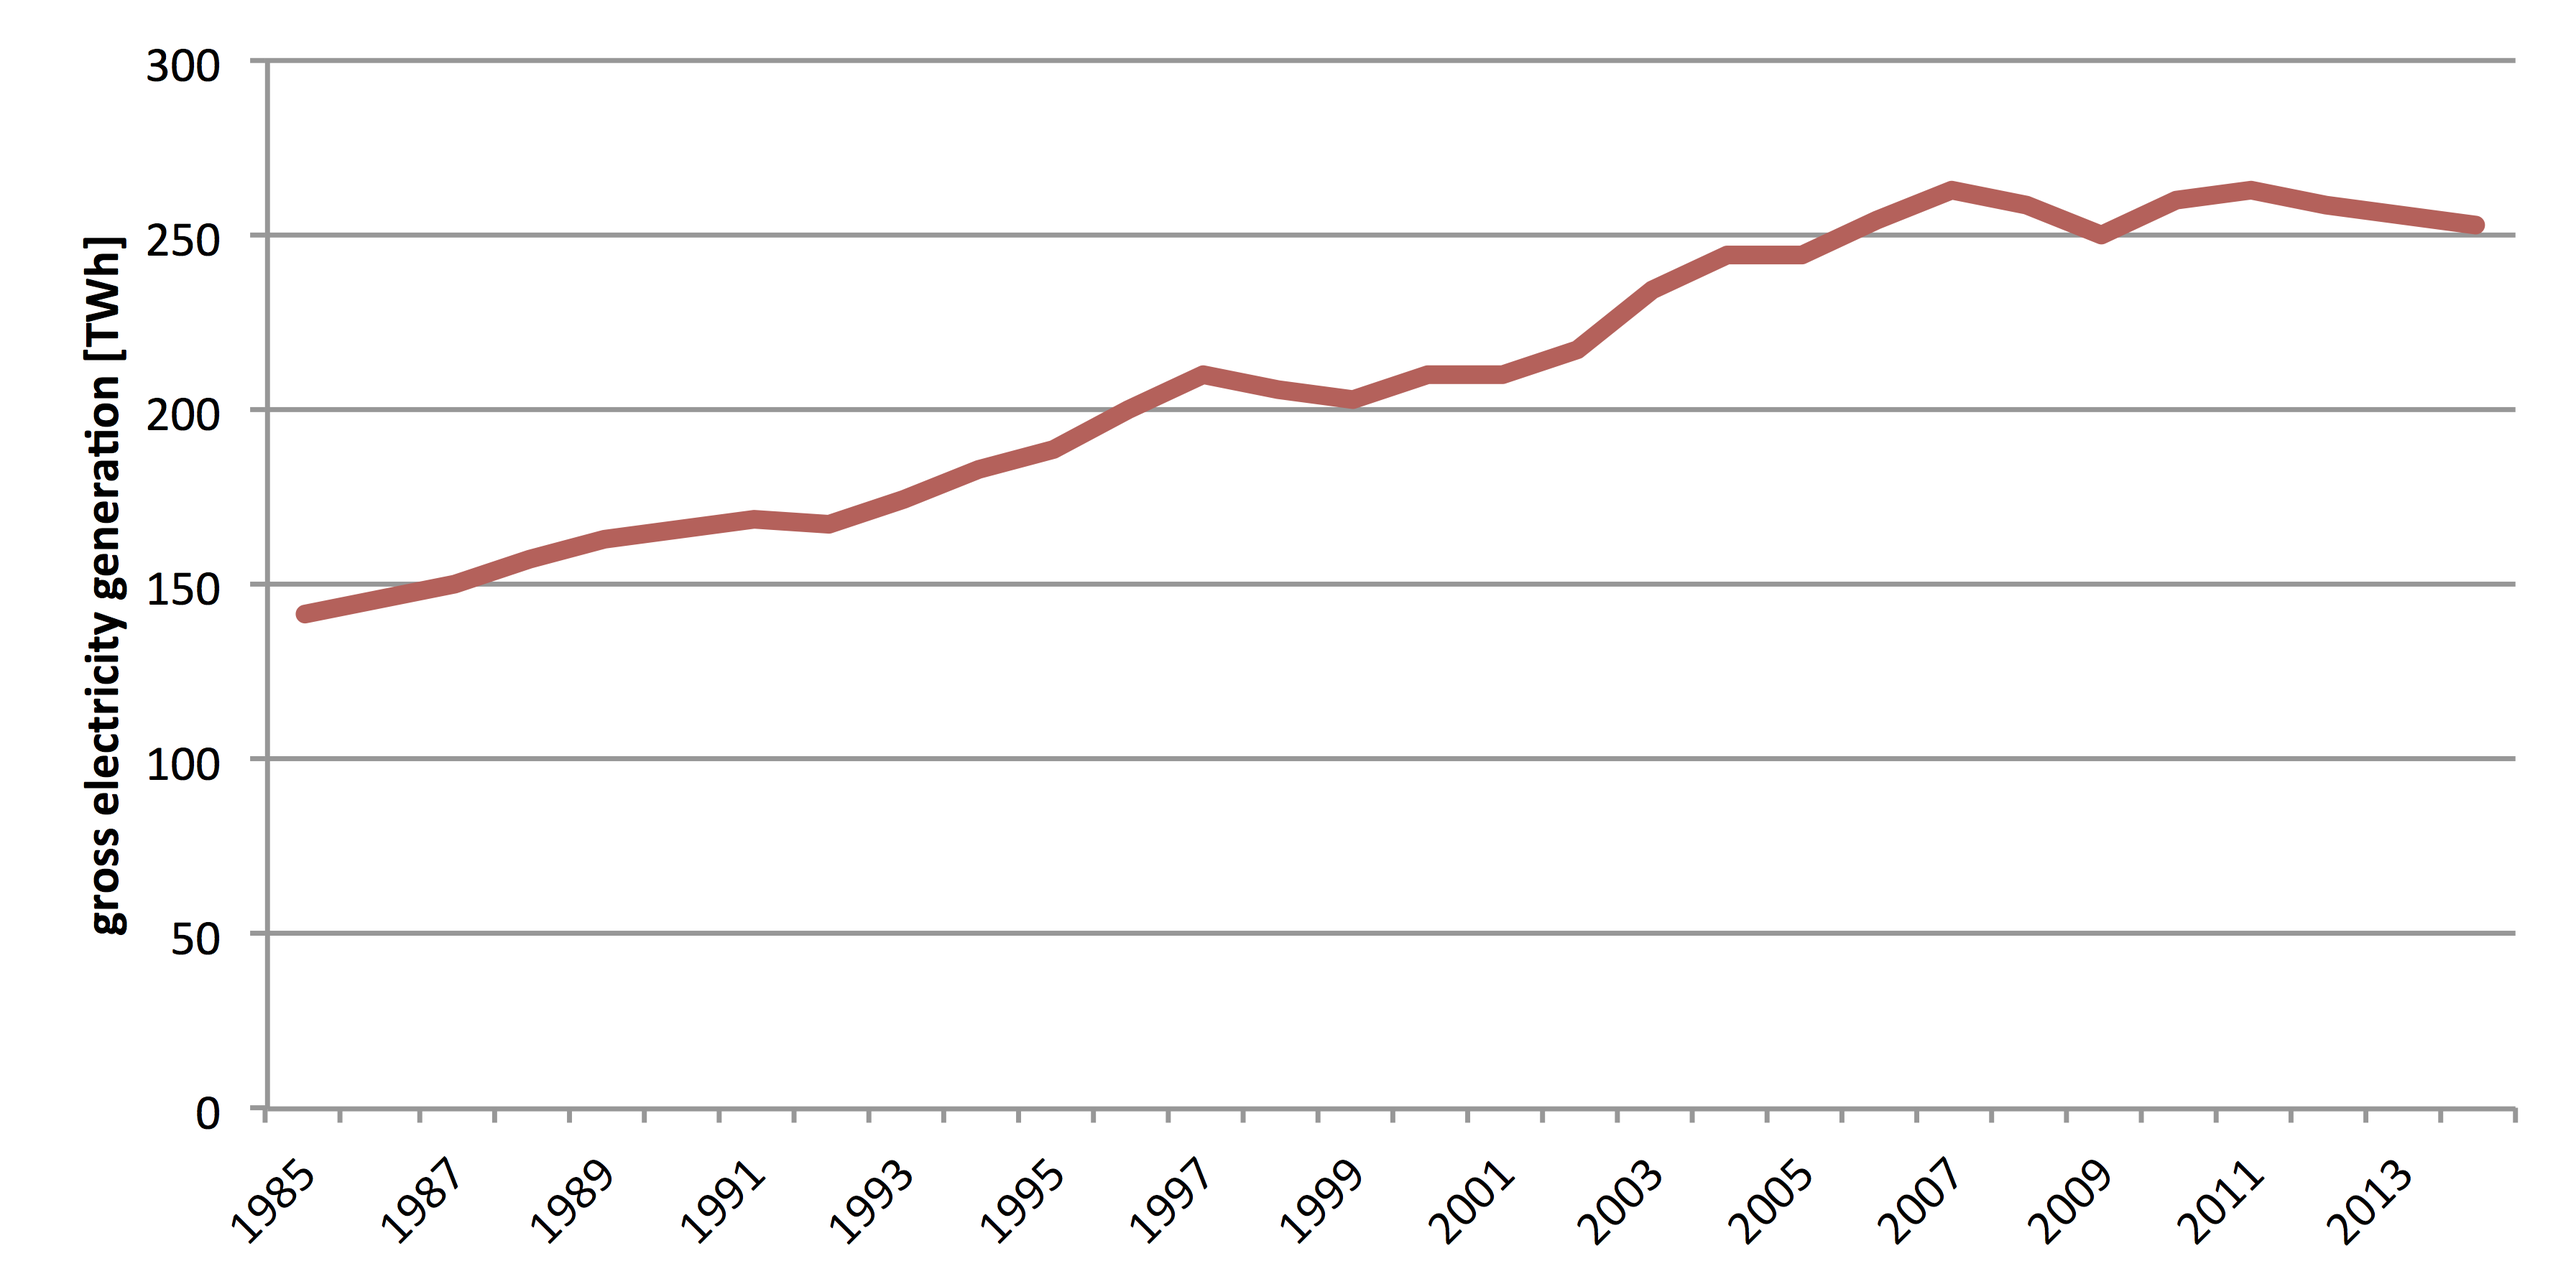
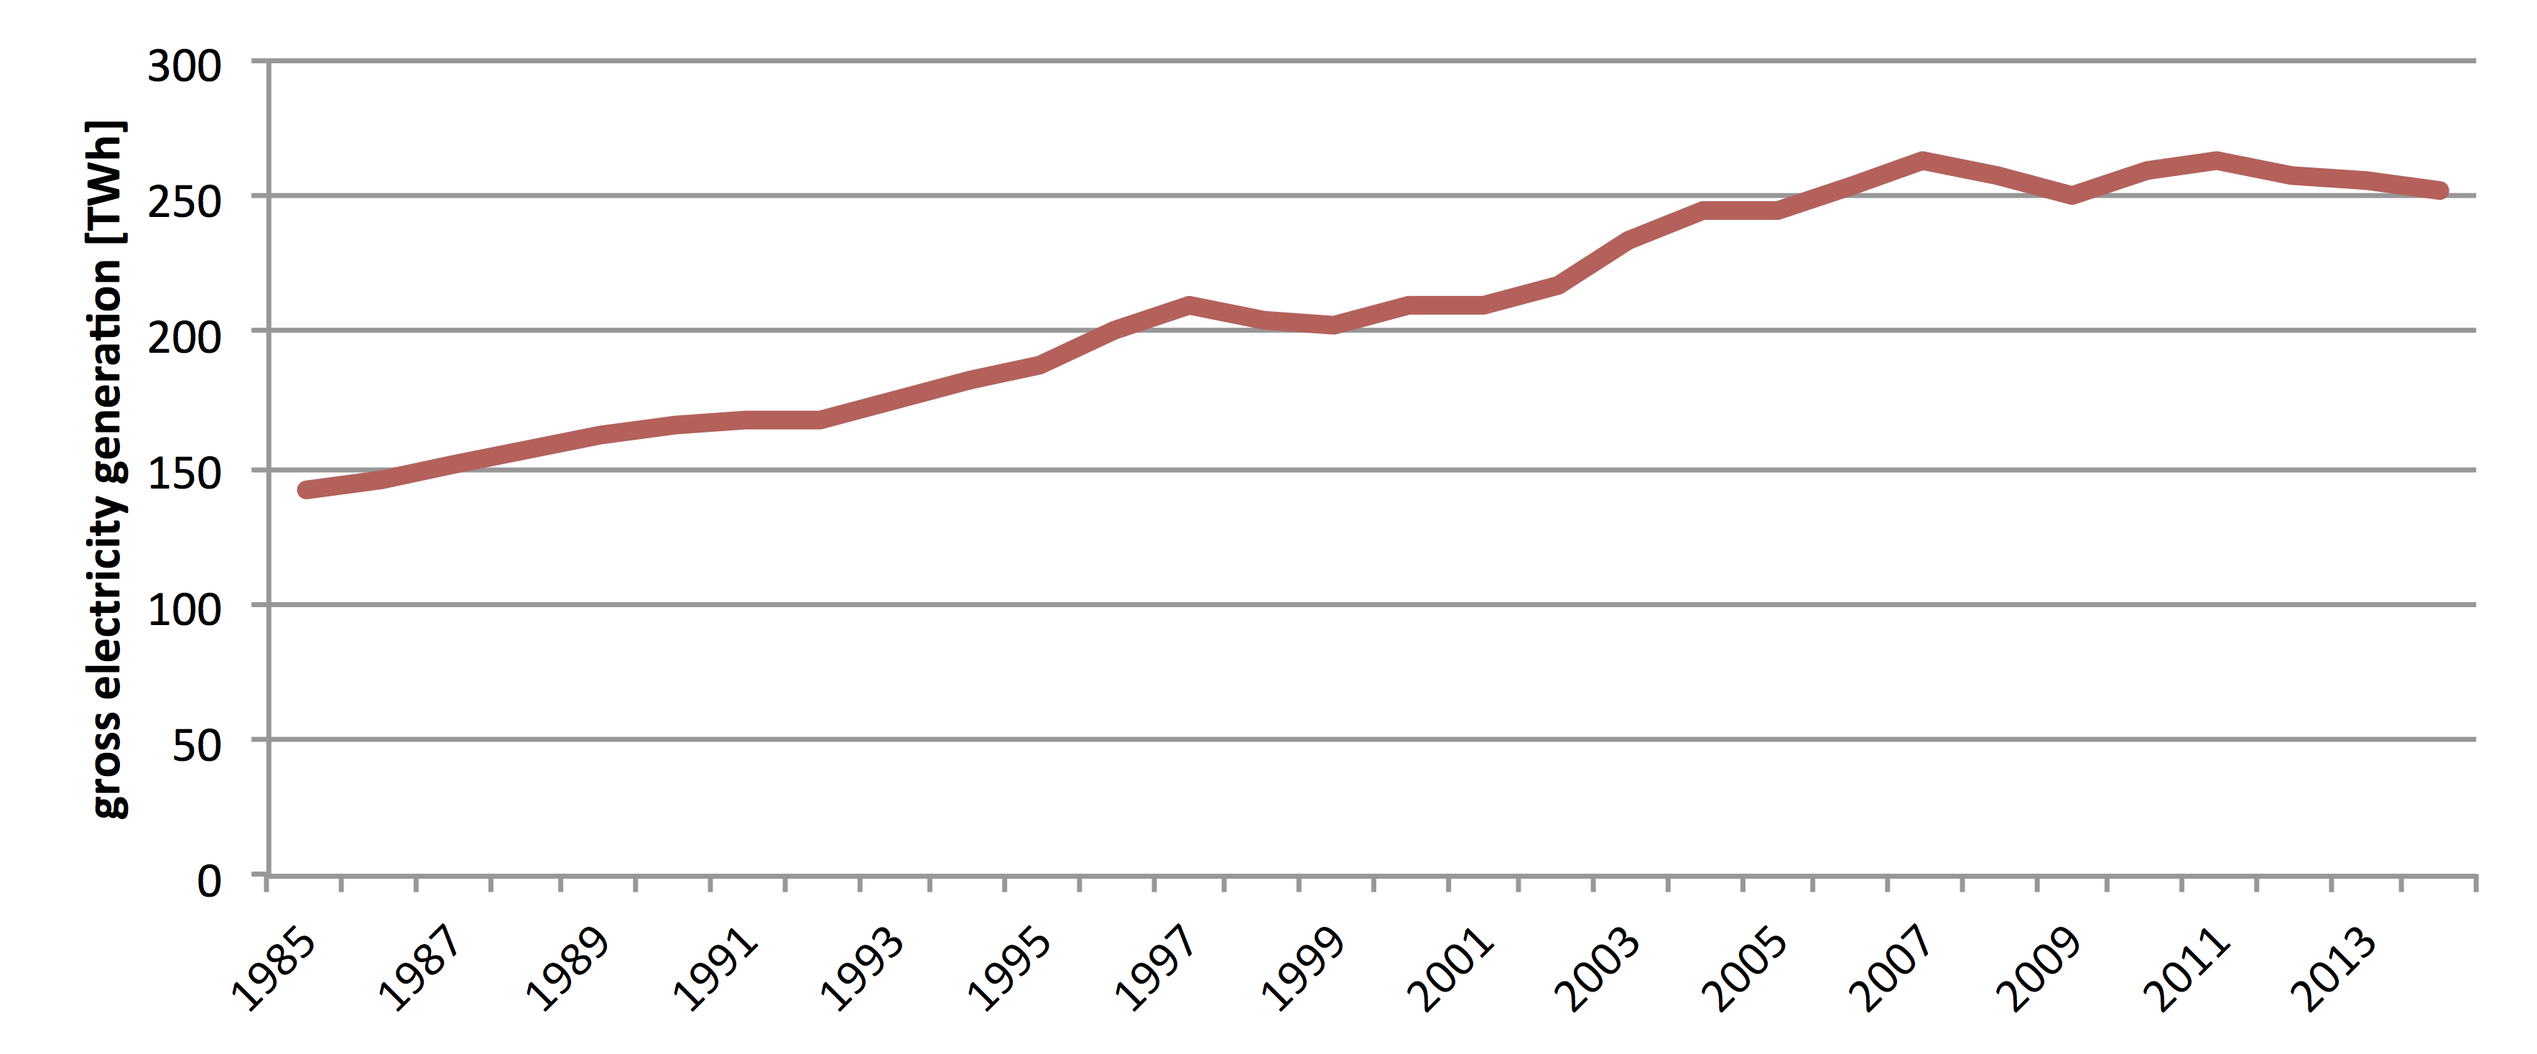
Chapter SA Energy sector abgeschlossen

Changed region(s): [[0.0311, 0.0307, 0.9966, 0.9816]]

diff --git a/sa_energy_sector.tex b/sa_energy_sector.tex
@@ -53,54 +53,48 @@ Figure~\ref{Electr} compares the South African and worldwide primary energy cons
         \end{subfigure}
 \caption[Comparision of primary energy consumption for electricity generation by fuel in 2013.]{Comparision of primary energy consumption for electricity generation by fuel in 2013 \cite{Agency2015}.}\label{Electr}
 \end{figure}
-
+As mentioned in 2014 the gross electricity generation was about 252.58~TWh in SA. But when taking an eye on the evolution of the gross electricity generation of the last three decades in Figure~\ref{electrGross} it can be noted that the generation peaked in 2007 with 263,48~TWh. \cite{BP2015c} 
 
 \begin{figure}[htbp]  
 \centering
 \includegraphics[width=1\linewidth]{FIG/electrGross}
 \caption[Evolution of gross electricity generation in SA.]{Evolution of gross electricity generation in SA \cite{BP2015c}.}\label{electrGross}
 \end{figure}
+The leak on growth momentum of gross electricity generation in SA after the global financial crisis in 2009 is not leading from decreasing request in demand, but more from a power plant maintainence behind schedule and investment backlog. The delayed maintainence schedule was a results from Eskom's “keeping the lights on” philosophy what they are calling nowadays a "not sustainable approach" \cite{Eskom2014}. Eskom’s base load fleet has a average age of about 34 years with a plant availability of about 73~\% \cite{Eskom2015c}. This facts be associated with the rising annual unplanned capability loss factor (UCLF) of Eskom’s power plant fleet. Figure~\ref{UCLF} shows that the UCLF rises from 2008/09 on significantly. In 2014/15 the UCLF reached their maximum of 15.22~\%. The rising UCLF comes in hand with implementing of “load shedding” by Eskom in 2008, which is a planned rolling blackouts based on a schedule in order to protect the power system from a total blackout \cite{Eskom2015d}. Eskom implemted a load shedding schedule in four stages, wich allows Eskom at Stage 4 to dropping of up to 4~000~MW of the national load to balance electricity supply and demand. \cite{Eskom2015e}
 
-The final electricity consumption in SA was about 197~092~GWh in 2012. The final consumption consist also three main consumers. The largest consumer group with about 59.5~\% are industrial consumers, followed by residential consumers (19.7~\%) and commercial and public services (14.3~\%). The complete electricity flow is shown in Annexure I, Part A, Table \ref{tab1}, on page \pageref{tab1}. \cite{Agency2015}
-
-\subsection{Rising energy consumption and security of supply}
-
-\begin{figure}[!h] % Monthly Reserve
+\begin{figure}[htbp]  
 \centering
-\includegraphics[width=0.9\linewidth]{FIG/AveragemonthlySA}
-\caption[Average monthly \% operating reserves.]{Average monthly \% operating reserves\cite{Eskom2014}.}\label{Abb1}
+\includegraphics[width=1\linewidth]{FIG/UCLF}
+\caption[Evolution of Eskom's annual unplanned capability loss factor.]{Evolution of Eskom's annual unplanned capability loss factor \cite{Eskom2015b,Eskom2015d}.}\label{UCLF}
 \end{figure}
+SA has currently a total nominal installed capacity of 45~699~MW, therefrom Eskom owns and manage 42~090~MW power station capacity in March 2015 \cite{Eskom2015b}. Almost 85~\% of Eskom's power plant capacity are coal-fired (35~721~MW), 4.4~\% nuclear (1~860~MW) and 5.7~\% gas-fired (2~409~MW) which is shown in Figure~\ref{PgenerationEskom}. Besides these fossil and nuclear based capacities Eskom owns also capacities in pumped storage (1~400~MW), hydro (600~MW) and wind (100~MW). Further 3~609~MW capacity coming from independent power producers (IPP) which also include 1~795~MW renewable generation trough the Renewable Energy Independent Power Producer Procurement Program (REIPPPP). \cite{Eskom2015a}
 
-
-\begin{figure}[!h] % Demand growth
+\begin{figure}[htbp]  
 \centering
-\includegraphics[width=0.9\linewidth]{FIG/SA_Electricity_demand_growth}
-\caption[Electricity demand growth by sector in South Africa in the New Policies Scenario.]{Electricity demand growth by sector in South Africa in the New Policies Scenario \cite{IEA2014f}.}\label{Abb1}
+\includegraphics[width=0.45\linewidth]{FIG/PgenerationEskom}
+\caption[Eskom's nominal installed power station capacity allocation in 2015.]{Eskom's nominal installed power station capacity allocation in 2015 \cite{Eskom2015a}.}\label{PgenerationEskom}
 \end{figure}
+The REIPPPP is one of the instruments that the SA Government uses to reaching there ambitious set target for a total installed capacity of 81~350~MW in 2030. From the aspired goal 17~430~MW are planed from wind and solar power. More precisely 9~770~MW by PV and 3~300~MW by CSP. \cite{DoE2013}
 
-\subsection{Structure of power distribution}
-Kilometerlängen, Verluste im Netz \cite{Eskom2014a}
+After five bid windows (incl. extended bid window in March 2014) the REIPPPP reached a committed capacity of 5~237~MW wherefrome 1~899~MW are commited to PV and 600~MW to CSP. \cite{DoE2015}
 
-SA's power supply system is controlled to a frequency of 50Hz.
-
-On mainland sub-Saharan Africa, SA has with around 85~\% the highest electrification rate. About 11~\% of households don't have access to electricity and a further 4~\% rely on illegal access (non-paying) or obtain access informally (from one household to another but paying). \cite{IEA2014f}
+Currently most of the power generation is located in the north east of the country. Near to Johannesburg the capital of the province Gauteng are most of the country’s coal-fired power stations and coal mines allocated, as well as the country’s economic and industrial hub. SA is a country of wide open spaces and cities and towns are separated by large distance. Therefore long transmission lines are needed to transport electricity from the large power plants of the Gauteng province to the coastal areas. Figure~\ref{transmissionprojekts} gives an overview of the current situation of the allocations of the power stations and the transmission lines. Also Eskoms future transmission and power station projects are featured in the figure.
 
 \begin{figure}[htbp]
 \centering
 \includegraphics[width=1\linewidth]{FIG/transmissionprojekts}
 \caption[Eskom’s transmission projects as at 31 March 2015.]{Eskom’s transmission projects as at 31 March 2015 \cite{Eskom2015a}.}\label{transmissionprojekts}
 \end{figure}
+Eskom operates, manages and maintains a total distance of 368~331~km power lines, whereof 31~107~km are transmission power lines at 765~kV to 132~kV and 48~278~km are distribution power lines at 132~kV to 33~kV. The residual power lines are 281~510~km reticulation power lines which are below 22kV and 7~436~km underground cables. Thereby is the country's total transformer capacity 239~490~MVA. The whole power supply system is controlled to a frequency of 50~Hz. \cite{Eskom2015b}
 
-http://integratedreport.eskom.co.za/supplementary/app-transmission.php
+When taking again an eye on Figure~\ref{transmissionprojekts} it can be noted, that the area of Upington in the Northern Cape province is not yet accessed with high voltage transmission lines. Considering that the area of Upington provides the country’s highest solar irradiation value and is therefore a highly attractive site for solar power plants, new high voltage transmission lines to regions with higher load factors are necessary and are currently in its planning phase. Eskom is currently planing additional 3~940~km  transmission lines and 12~815~MVA transformer capacities till 2021 \cite{Eskom2015a}.
 
-\section{Renewable energy potential in South Africa}
+Through this electricity network SA covers a electrification rate of around 85~\% and which is the highest on mainland sub-Saharan Africa. About 11~\% of households don't have access to electricity and a further 4~\% rely on illegal access (non-paying) or obtain access informally (from one household to another but paying). \cite{IEA2014f}
 
-\subsection{Energy outlook for South Africa}
-Development of a Renewable Energy Power Supply Outlook 2015 for the Republic of South Africa
-Achieved by Sebastian Giglmayr, BSc
-\cite{Giglmayr2013}
-
-\subsection{Government Incentives}
-
-\section{Chapter summary}
+In the financial year 2014/15 Eskom sales about 216~274~GWh. The spread of the main customers is shown in Figure~\ref{ElectricityShare}. From this it appears that the Municipalities are Eskom's biggest consumers. But also the Industrial and Mining sector makes together a considerable part of 38.6~\% of the electricity consumption. The residential part of the electricity consumption was just about 5.36~\% and the commercial part was below 5~\%. The main part of the exported electricity with about 70~\% went to the neighboring country Mosambique and further 10~\% to Botswana. Namibia and Swaziland mades just 8 or 7~\% of the exported electricity. \cite{Eskom2015b}  
+\begin{figure}[!h] 
+\centering
+\includegraphics[width=0.4\linewidth]{FIG/ElectricityShare}
+\caption[Eskom's electricity sales per customer category.]{Eskom's electricity sales per customer category \cite{Eskom2015b}.}\label{ElectricityShare}
+\end{figure}
 \pagebreak

diff --git a/abbreviations.tex b/abbreviations.tex
@@ -23,6 +23,7 @@
     \acro{ha}[ha]{hectare (1 ha = 10 000 m\textsuperscript{2})} 
     \acro{HTF}[HTF]{heat-transfer fluid} 
     \acro{IEA}[IEA]{International Energy Agency}
+    \acro{IPP}[IPP]{independent power producers}
     \acro{IRP}[IRP]{Integrated Resource Plan}
     \acro{kW}[kW]{kilowatt}
     \acro{kWh}[kWh]{kilowatt hour}
@@ -49,6 +50,7 @@
     \acro{STE}[STE]{solar thermal electricity}
     \acro{TES}[TES]{thermal energy storage}
     \acro{TWh}[TWh]{terawatt hour}
+    \acro{UCLF}[UCLF]{unplanned capability loss factor}
     \acro{W}[W]{watt}
     \acro{Wh}[Wh]{watt hour}
 \end{acronym}
